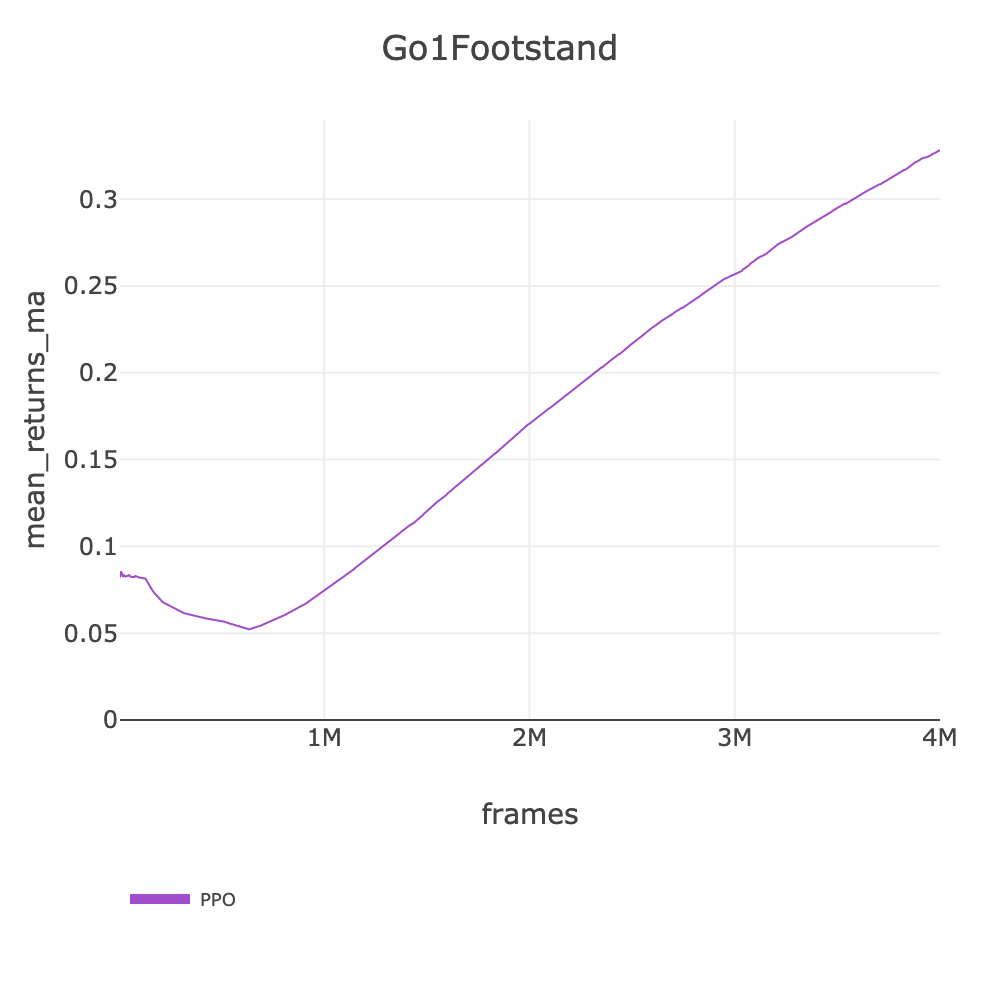
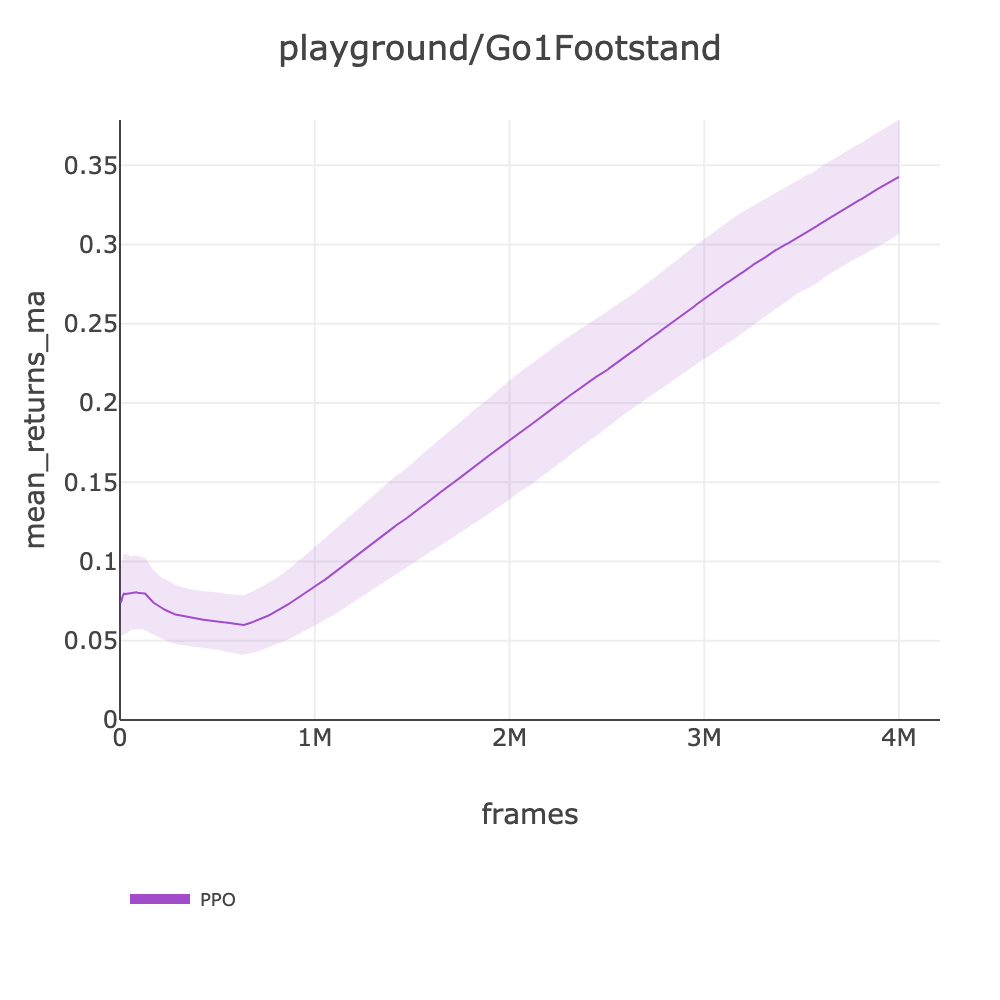
fix: loco robot plots batch 3 — Go1Footstand, JoystickFlat/Rough, SpotJoystick 4-session reruns

diff --git a/docs/BENCHMARKS.md b/docs/BENCHMARKS.md
@@ -900,10 +900,10 @@ source .env && slm-lab run-remote --gpu -s env=playground/CartpoleBalance -s max
 | playground/G1JoystickFlatTerrain | PPO loco | -7.72 | N/A | ~197 (loco/64e) | 4M | ~5.6h | [ppo_playground_arc_loco_g1joystickflatterrain_2026_03_07_231921](https://huggingface.co/datasets/SLM-Lab/benchmark-dev/tree/main/data/ppo_playground_arc_loco_g1joystickflatterrain_2026_03_07_231921) |
 | | SAC | - | | - | - | - | - |
 | | CrossQ | - | | - | - | - | - |
-| playground/G1JoystickRoughTerrain | PPO | - | N/A | - | - | - | - |
+| playground/G1JoystickRoughTerrain | PPO loco | - | N/A | ~197 (loco/64e) | 4M | ~5.6h | - | <!-- bipedal, near-zero by constraint -->
 | | SAC | - | | - | - | - | - |
 | | CrossQ | - | | - | - | - | - |
-| playground/Go1Footstand | PPO loco | 0.33 | N/A | ~444 (loco/64e) | 4M | ~2.5h | [ppo_playground_arc_loco_go1footstand_2026_03_08_010822](https://huggingface.co/datasets/SLM-Lab/benchmark-dev/tree/main/data/ppo_playground_arc_loco_go1footstand_2026_03_08_010822) |
+| playground/Go1Footstand | PPO loco | 0.34 | N/A | ~210 (loco/64e) | 4M | ~5.3h | [ppo_playground_arc_loco_go1footstand_2026_03_09_120437](https://huggingface.co/datasets/SLM-Lab/benchmark-dev/tree/main/data/ppo_playground_arc_loco_go1footstand_2026_03_09_120437) |
 | | SAC | - | | - | - | - | - |
 | | CrossQ | - | | - | - | - | - |
 | playground/Go1Getup | PPO | - | N/A | - | - | - | - |
@@ -912,10 +912,10 @@ source .env && slm-lab run-remote --gpu -s env=playground/CartpoleBalance -s max
 | playground/Go1Handstand | PPO loco | 0.33 | N/A | ~198 (loco/64e) | 4M | ~5.6h | [ppo_playground_arc_loco_go1handstand_2026_03_09_120629](https://huggingface.co/datasets/SLM-Lab/benchmark-dev/tree/main/data/ppo_playground_arc_loco_go1handstand_2026_03_09_120629) |
 | | SAC | - | | - | - | - | - |
 | | CrossQ | - | | - | - | - | - |
-| playground/Go1JoystickFlatTerrain | PPO loco | 0.00 | N/A | ~580 (loco/64e) | 4M | ~1.9h | [ppo_playground_arc_loco_go1joystickflatterrain_2026_03_08_002844](https://huggingface.co/datasets/SLM-Lab/benchmark-dev/tree/main/data/ppo_playground_arc_loco_go1joystickflatterrain_2026_03_08_002844) |
+| playground/Go1JoystickFlatTerrain | PPO loco | 0.00 | N/A | ~274 (loco/64e) | 4M | ~4.1h | [ppo_playground_arc_loco_go1joystickflatterrain_2026_03_09_120436](https://huggingface.co/datasets/SLM-Lab/benchmark-dev/tree/main/data/ppo_playground_arc_loco_go1joystickflatterrain_2026_03_09_120436) |
 | | SAC | - | | - | - | - | - |
 | | CrossQ | - | | - | - | - | - |
-| playground/Go1JoystickRoughTerrain | PPO | - | N/A | - | - | - | - |
+| playground/Go1JoystickRoughTerrain | PPO loco | 0.00 | N/A | ~213 (loco/64e) | 4M | ~5.2h | [ppo_playground_arc_loco_go1joystickroughterrain_2026_03_09_120719](https://huggingface.co/datasets/SLM-Lab/benchmark-dev/tree/main/data/ppo_playground_arc_loco_go1joystickroughterrain_2026_03_09_120719) |
 | | SAC | - | | - | - | - | - |
 | | CrossQ | - | | - | - | - | - |
 | playground/H1InplaceGaitTracking | PPO loco | 0.14 | N/A | ~368 (loco/64e) | 4M | ~3.0h | [ppo_playground_arc_loco_h1inplacegaittracking_2026_03_08_221210](https://huggingface.co/datasets/SLM-Lab/benchmark-dev/tree/main/data/ppo_playground_arc_loco_h1inplacegaittracking_2026_03_08_221210) |
@@ -933,13 +933,13 @@ source .env && slm-lab run-remote --gpu -s env=playground/CartpoleBalance -s max
 | playground/SpotGetup | PPO loco | 1.46 | N/A | ~498 (loco/64e) | 4M | ~2.2h | [ppo_playground_arc_loco_spotgetup_2026_03_09_005004](https://huggingface.co/datasets/SLM-Lab/benchmark-dev/tree/main/data/ppo_playground_arc_loco_spotgetup_2026_03_09_005004) |
 | | SAC | - | | - | - | - | - |
 | | CrossQ | - | | - | - | - | - |
-| playground/SpotJoystickGaitTracking | PPO loco | 0.10 | N/A | ~572 (loco/64e) | 4M | ~1.9h | [ppo_playground_arc_loco_spotjoystickgaittracking_2026_03_08_034659](https://huggingface.co/datasets/SLM-Lab/benchmark-dev/tree/main/data/ppo_playground_arc_loco_spotjoystickgaittracking_2026_03_08_034659) |
+| playground/SpotJoystickGaitTracking | PPO loco | 0.11 | N/A | ~276 (loco/64e) | 4M | ~4.2h | [ppo_playground_arc_loco_spotjoystickgaittracking_2026_03_09_120509](https://huggingface.co/datasets/SLM-Lab/benchmark-dev/tree/main/data/ppo_playground_arc_loco_spotjoystickgaittracking_2026_03_09_120509) |
 | | SAC | - | | - | - | - | - |
 | | CrossQ | - | | - | - | - | - |
 | playground/T1JoystickFlatTerrain | PPO loco | 0.03 | N/A | ~245 (loco/64e) | 4M | ~4.5h | [ppo_playground_arc_loco_t1joystickflatterrain_2026_03_09_014921](https://huggingface.co/datasets/SLM-Lab/benchmark-dev/tree/main/data/ppo_playground_arc_loco_t1joystickflatterrain_2026_03_09_014921) |
 | | SAC | - | | - | - | - | - |
 | | CrossQ | - | | - | - | - | - |
-| playground/T1JoystickRoughTerrain | PPO | - | N/A | - | - | - | - |
+| playground/T1JoystickRoughTerrain | PPO loco | - | N/A | ~245 (loco/64e) | 4M | ~4.5h | - | <!-- bipedal, near-zero by constraint -->
 | | SAC | - | | - | - | - | - |
 | | CrossQ | - | | - | - | - | - |
 
@@ -949,7 +949,7 @@ source .env && slm-lab run-remote --gpu -s env=playground/CartpoleBalance -s max
 | ![G1JoystickFlatTerrain](plots/G1JoystickFlatTerrain_multi_trial_graph_mean_returns_ma_vs_frames.png) | ![Go1Footstand](plots/Go1Footstand_multi_trial_graph_mean_returns_ma_vs_frames.png) | ![Go1Handstand](plots/Go1Handstand_multi_trial_graph_mean_returns_ma_vs_frames.png) |
 | ![H1InplaceGaitTracking](plots/H1InplaceGaitTracking_multi_trial_graph_mean_returns_ma_vs_frames.png) | ![H1JoystickGaitTracking](plots/H1JoystickGaitTracking_multi_trial_graph_mean_returns_ma_vs_frames.png) | ![Op3Joystick](plots/Op3Joystick_multi_trial_graph_mean_returns_ma_vs_frames.png) |
 | ![SpotFlatTerrainJoystick](plots/SpotFlatTerrainJoystick_multi_trial_graph_mean_returns_ma_vs_frames.png) | ![SpotGetup](plots/SpotGetup_multi_trial_graph_mean_returns_ma_vs_frames.png) | ![SpotJoystickGaitTracking](plots/SpotJoystickGaitTracking_multi_trial_graph_mean_returns_ma_vs_frames.png) |
-| ![T1JoystickFlatTerrain](plots/T1JoystickFlatTerrain_multi_trial_graph_mean_returns_ma_vs_frames.png) | | |
+| ![Go1JoystickFlatTerrain](plots/Go1JoystickFlatTerrain_multi_trial_graph_mean_returns_ma_vs_frames.png) | ![Go1JoystickRoughTerrain](plots/Go1JoystickRoughTerrain_multi_trial_graph_mean_returns_ma_vs_frames.png) | ![T1JoystickFlatTerrain](plots/T1JoystickFlatTerrain_multi_trial_graph_mean_returns_ma_vs_frames.png) |
 
 #### Manipulation (10 envs)
 
